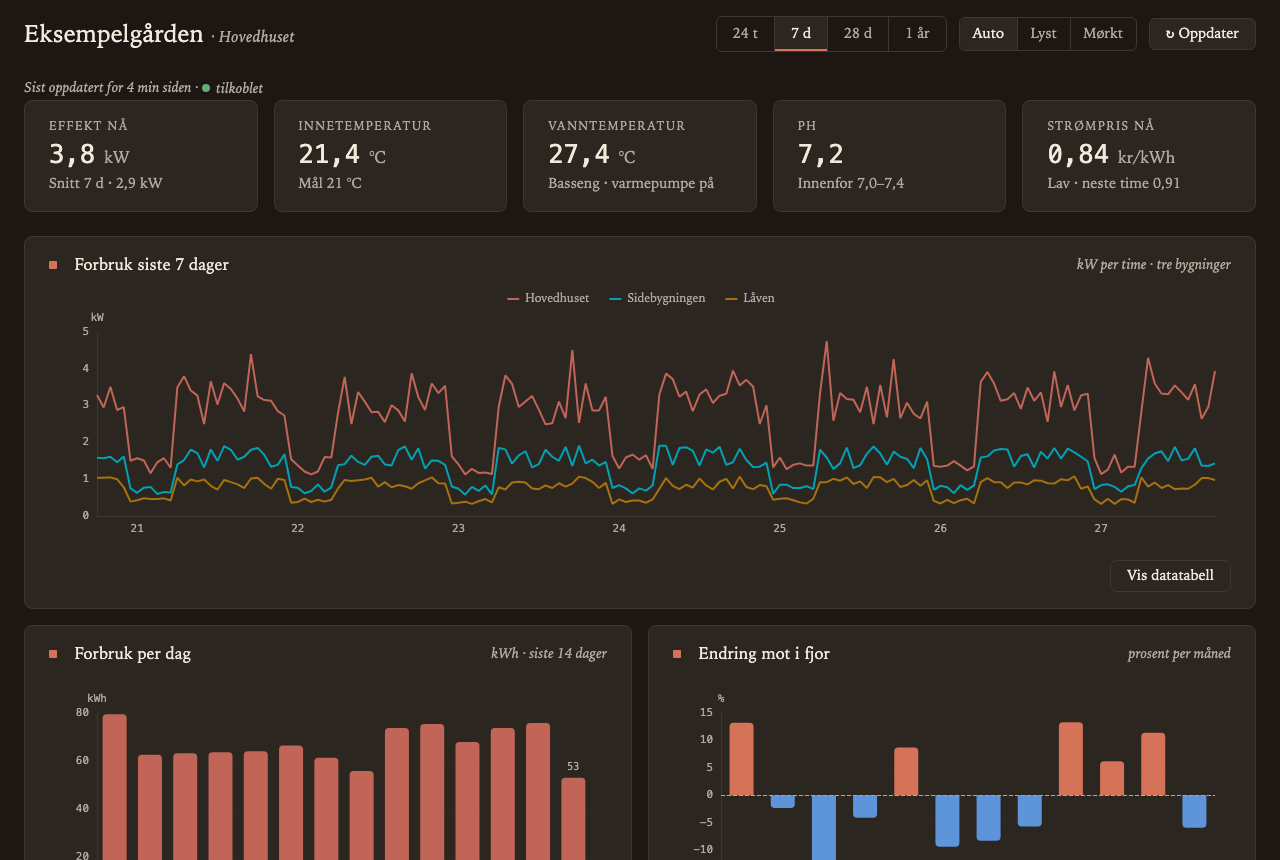
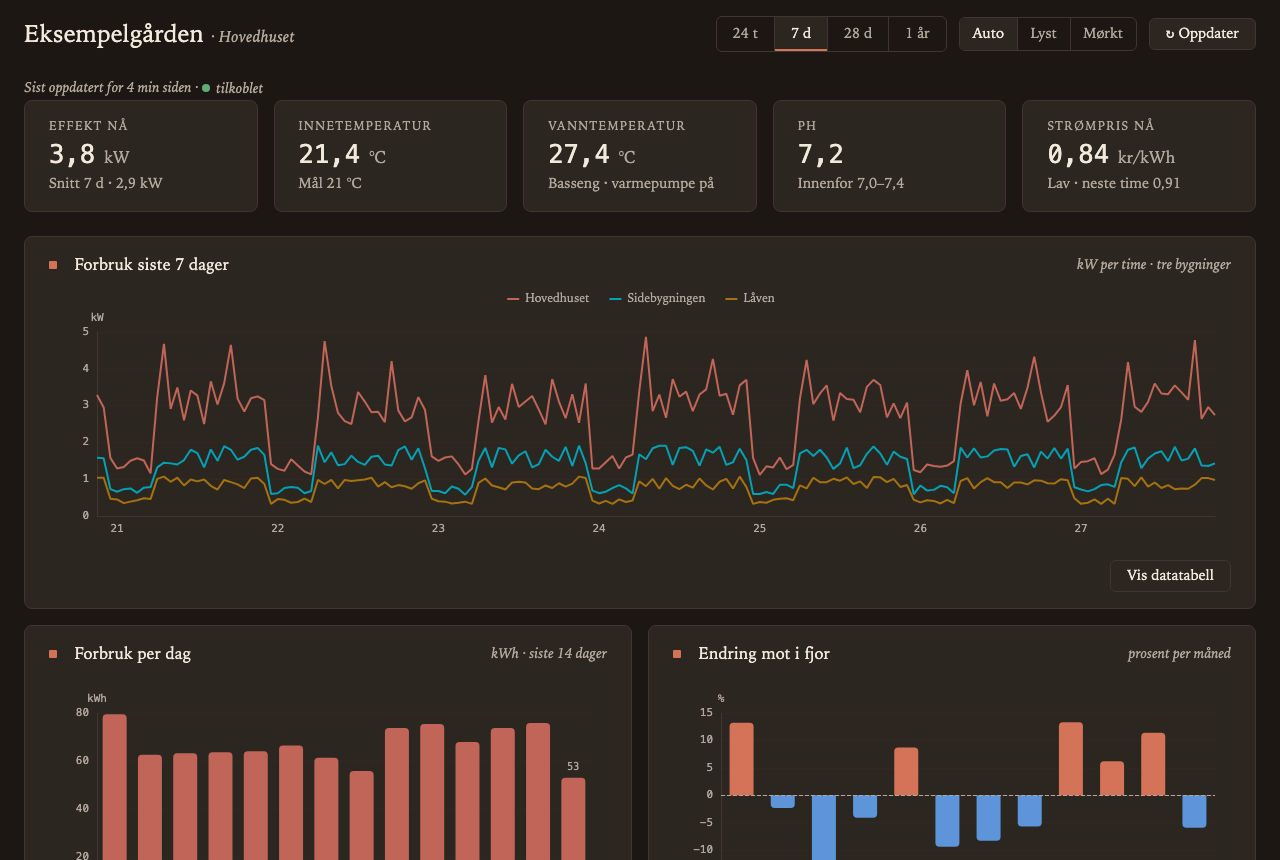
Nerdesign v1.0.2

diff --git a/site/versjoner.html b/site/versjoner.html
@@ -11,11 +11,11 @@
 <link rel="stylesheet" href="dist/vendor/photoswipe/photoswipe.min.css">
 <link rel="stylesheet" href="site.css">
 </head>
-<body data-nd-version="1.0.1">
+<body data-nd-version="1.0.2">
 <a class="nd-skip-link" href="#innhold">Hopp til innhold</a>
 <div class="site-version-banner" id="version-banner" hidden></div>
 <header class="site-header">
-  <a class="site-brand" href="index.html"><span class="site-mark" aria-hidden="true"></span>Nerdesign <small class="nd-numeric">v1.0.1</small></a>
+  <a class="site-brand" href="index.html"><span class="site-mark" aria-hidden="true"></span>Nerdesign <small class="nd-numeric">v1.0.2</small></a>
   <nav class="site-nav" aria-label="Hovedmeny">
     <a href="index.html">Om</a>
     <a href="kom-i-gang.html">Kom i gang</a>
@@ -37,6 +37,11 @@
 
 
 <section class="nd-panel" style="margin-bottom: var(--nd-space-4);">
+  <h2 style="margin-top: 0;">v1.0.2 <small class="nd-muted" style="font-size: 0.6em; font-weight: 400;">2026-08-27</small></h2>
+  <ul class="nd-list"></ul>
+  <p class="nd-row" style="margin: 0;"><a class="nd-button" href="v1.0.2/">Se nettstedet for v1.0.2</a><a class="nd-button" href="v1.0.2/dist/nd.css">nd.css</a><a class="nd-button" href="https://github.com/nerdegutt/nerdesign/releases/tag/v1.0.2">GitHub-release</a></p>
+</section>
+<section class="nd-panel" style="margin-bottom: var(--nd-space-4);">
   <h2 style="margin-top: 0;">v1.0.1 <small class="nd-muted" style="font-size: 0.6em; font-weight: 400;">2026-08-27</small></h2>
   <ul class="nd-list"></ul>
   <p class="nd-row" style="margin: 0;"><a class="nd-button" href="v1.0.1/">Se nettstedet for v1.0.1</a><a class="nd-button" href="v1.0.1/dist/nd.css">nd.css</a><a class="nd-button" href="https://github.com/nerdegutt/nerdesign/releases/tag/v1.0.1">GitHub-release</a></p>
@@ -47,7 +52,7 @@
   <p class="nd-row" style="margin: 0;"><a class="nd-button" href="v1.0.0/">Se nettstedet for v1.0.0</a><a class="nd-button" href="v1.0.0/dist/nd.css">nd.css</a><a class="nd-button" href="https://github.com/nerdegutt/nerdesign/releases/tag/v1.0.0">GitHub-release</a></p>
 </section>
 </main>
-<footer class="nd-colophon">Nerdesign · et designsystem for Helgerød gård, Jeløya · v1.0.1</footer>
+<footer class="nd-colophon">Nerdesign · et designsystem for Helgerød gård, Jeløya · v1.0.2</footer>
 <script>
   // Snapshot banner: tell the reader when a newer release exists. versions.json lives at the site root.
   (async () => {

diff --git a/site/index.html b/site/index.html
@@ -11,11 +11,11 @@
 <link rel="stylesheet" href="dist/vendor/photoswipe/photoswipe.min.css">
 <link rel="stylesheet" href="site.css">
 </head>
-<body data-nd-version="1.0.1">
+<body data-nd-version="1.0.2">
 <a class="nd-skip-link" href="#innhold">Hopp til innhold</a>
 <div class="site-version-banner" id="version-banner" hidden></div>
 <header class="site-header">
-  <a class="site-brand" href="index.html"><span class="site-mark" aria-hidden="true"></span>Nerdesign <small class="nd-numeric">v1.0.1</small></a>
+  <a class="site-brand" href="index.html"><span class="site-mark" aria-hidden="true"></span>Nerdesign <small class="nd-numeric">v1.0.2</small></a>
   <nav class="site-nav" aria-label="Hovedmeny">
     <a href="index.html" aria-current="page">Om</a>
     <a href="kom-i-gang.html">Kom i gang</a>
@@ -57,7 +57,7 @@
 <p class="nd-measure">Laget for Helgerød gård på Jeløya. Prefikset på alle klasser og tokens er <code>nd-</code>. Koden er MIT-lisensiert; JetBrains Mono og PhotoSwipe følger sine egne åpne lisenser.</p>
 
 </main>
-<footer class="nd-colophon">Nerdesign · et designsystem for Helgerød gård, Jeløya · v1.0.1</footer>
+<footer class="nd-colophon">Nerdesign · et designsystem for Helgerød gård, Jeløya · v1.0.2</footer>
 <script>
   // Snapshot banner: tell the reader when a newer release exists. versions.json lives at the site root.
   (async () => {

diff --git a/site/eksempler.html b/site/eksempler.html
@@ -11,11 +11,11 @@
 <link rel="stylesheet" href="dist/vendor/photoswipe/photoswipe.min.css">
 <link rel="stylesheet" href="site.css">
 </head>
-<body data-nd-version="1.0.1">
+<body data-nd-version="1.0.2">
 <a class="nd-skip-link" href="#innhold">Hopp til innhold</a>
 <div class="site-version-banner" id="version-banner" hidden></div>
 <header class="site-header">
-  <a class="site-brand" href="index.html"><span class="site-mark" aria-hidden="true"></span>Nerdesign <small class="nd-numeric">v1.0.1</small></a>
+  <a class="site-brand" href="index.html"><span class="site-mark" aria-hidden="true"></span>Nerdesign <small class="nd-numeric">v1.0.2</small></a>
   <nav class="site-nav" aria-label="Hovedmeny">
     <a href="index.html">Om</a>
     <a href="kom-i-gang.html">Kom i gang</a>
@@ -61,7 +61,7 @@
   examples/circuit-overview.html</pre>
 
 </main>
-<footer class="nd-colophon">Nerdesign · et designsystem for Helgerød gård, Jeløya · v1.0.1</footer>
+<footer class="nd-colophon">Nerdesign · et designsystem for Helgerød gård, Jeløya · v1.0.2</footer>
 <script>
   // Snapshot banner: tell the reader when a newer release exists. versions.json lives at the site root.
   (async () => {

diff --git a/site/kom-i-gang.html b/site/kom-i-gang.html
@@ -11,11 +11,11 @@
 <link rel="stylesheet" href="dist/vendor/photoswipe/photoswipe.min.css">
 <link rel="stylesheet" href="site.css">
 </head>
-<body data-nd-version="1.0.1">
+<body data-nd-version="1.0.2">
 <a class="nd-skip-link" href="#innhold">Hopp til innhold</a>
 <div class="site-version-banner" id="version-banner" hidden></div>
 <header class="site-header">
-  <a class="site-brand" href="index.html"><span class="site-mark" aria-hidden="true"></span>Nerdesign <small class="nd-numeric">v1.0.1</small></a>
+  <a class="site-brand" href="index.html"><span class="site-mark" aria-hidden="true"></span>Nerdesign <small class="nd-numeric">v1.0.2</small></a>
   <nav class="site-nav" aria-label="Hovedmeny">
     <a href="index.html">Om</a>
     <a href="kom-i-gang.html" aria-current="page">Kom i gang</a>
@@ -115,7 +115,7 @@
 </ul>
 
 </main>
-<footer class="nd-colophon">Nerdesign · et designsystem for Helgerød gård, Jeløya · v1.0.1</footer>
+<footer class="nd-colophon">Nerdesign · et designsystem for Helgerød gård, Jeløya · v1.0.2</footer>
 <script>
   // Snapshot banner: tell the reader when a newer release exists. versions.json lives at the site root.
   (async () => {

diff --git a/site/grunnlag.html b/site/grunnlag.html
@@ -11,11 +11,11 @@
 <link rel="stylesheet" href="dist/vendor/photoswipe/photoswipe.min.css">
 <link rel="stylesheet" href="site.css">
 </head>
-<body data-nd-version="1.0.1">
+<body data-nd-version="1.0.2">
 <a class="nd-skip-link" href="#innhold">Hopp til innhold</a>
 <div class="site-version-banner" id="version-banner" hidden></div>
 <header class="site-header">
-  <a class="site-brand" href="index.html"><span class="site-mark" aria-hidden="true"></span>Nerdesign <small class="nd-numeric">v1.0.1</small></a>
+  <a class="site-brand" href="index.html"><span class="site-mark" aria-hidden="true"></span>Nerdesign <small class="nd-numeric">v1.0.2</small></a>
   <nav class="site-nav" aria-label="Hovedmeny">
     <a href="index.html">Om</a>
     <a href="kom-i-gang.html">Kom i gang</a>
@@ -105,7 +105,7 @@
 </div>
 
 </main>
-<footer class="nd-colophon">Nerdesign · et designsystem for Helgerød gård, Jeløya · v1.0.1</footer>
+<footer class="nd-colophon">Nerdesign · et designsystem for Helgerød gård, Jeløya · v1.0.2</footer>
 <script>
   // Snapshot banner: tell the reader when a newer release exists. versions.json lives at the site root.
   (async () => {

diff --git a/site/komponenter.html b/site/komponenter.html
@@ -11,11 +11,11 @@
 <link rel="stylesheet" href="dist/vendor/photoswipe/photoswipe.min.css">
 <link rel="stylesheet" href="site.css">
 </head>
-<body data-nd-version="1.0.1">
+<body data-nd-version="1.0.2">
 <a class="nd-skip-link" href="#innhold">Hopp til innhold</a>
 <div class="site-version-banner" id="version-banner" hidden></div>
 <header class="site-header">
-  <a class="site-brand" href="index.html"><span class="site-mark" aria-hidden="true"></span>Nerdesign <small class="nd-numeric">v1.0.1</small></a>
+  <a class="site-brand" href="index.html"><span class="site-mark" aria-hidden="true"></span>Nerdesign <small class="nd-numeric">v1.0.2</small></a>
   <nav class="site-nav" aria-label="Hovedmeny">
     <a href="index.html">Om</a>
     <a href="kom-i-gang.html">Kom i gang</a>
@@ -262,7 +262,7 @@
 </div>
 
 </main>
-<footer class="nd-colophon">Nerdesign · et designsystem for Helgerød gård, Jeløya · v1.0.1</footer>
+<footer class="nd-colophon">Nerdesign · et designsystem for Helgerød gård, Jeløya · v1.0.2</footer>
 <script>
   // Snapshot banner: tell the reader when a newer release exists. versions.json lives at the site root.
   (async () => {

diff --git a/site/tilgjengelighet.html b/site/tilgjengelighet.html
@@ -11,11 +11,11 @@
 <link rel="stylesheet" href="dist/vendor/photoswipe/photoswipe.min.css">
 <link rel="stylesheet" href="site.css">
 </head>
-<body data-nd-version="1.0.1">
+<body data-nd-version="1.0.2">
 <a class="nd-skip-link" href="#innhold">Hopp til innhold</a>
 <div class="site-version-banner" id="version-banner" hidden></div>
 <header class="site-header">
-  <a class="site-brand" href="index.html"><span class="site-mark" aria-hidden="true"></span>Nerdesign <small class="nd-numeric">v1.0.1</small></a>
+  <a class="site-brand" href="index.html"><span class="site-mark" aria-hidden="true"></span>Nerdesign <small class="nd-numeric">v1.0.2</small></a>
   <nav class="site-nav" aria-label="Hovedmeny">
     <a href="index.html">Om</a>
     <a href="kom-i-gang.html">Kom i gang</a>
@@ -75,7 +75,7 @@
 </table>
 
 </main>
-<footer class="nd-colophon">Nerdesign · et designsystem for Helgerød gård, Jeløya · v1.0.1</footer>
+<footer class="nd-colophon">Nerdesign · et designsystem for Helgerød gård, Jeløya · v1.0.2</footer>
 <script>
   // Snapshot banner: tell the reader when a newer release exists. versions.json lives at the site root.
   (async () => {

diff --git a/dist/nd.css b/dist/nd.css
@@ -1,4 +1,4 @@
-/* Nerdesign v1.0.1 – tokens, base styles and components. Copied from github.com/nerdegutt/nerdesign – do not edit here; change the source and copy again. */
+/* Nerdesign v1.0.2 – tokens, base styles and components. Copied from github.com/nerdegutt/nerdesign – do not edit here; change the source and copy again. */
 
 /* ===== tokens/primitives.css ===== */
 /* Layer 1 – primitive palette. Material names from the farm, with lightness
@@ -324,6 +324,8 @@ body {
   line-height: var(--nd-leading);
 }
 img, svg, video, canvas { max-width: 100%; height: auto; display: block; }
+/* the hidden attribute must win over any display rule a page adds */
+[hidden] { display: none !important; }
 button, input, select, textarea { font: inherit; color: inherit; }
 
 /* ===== base/typography.css ===== */

diff --git a/site/dist/nd.css b/site/dist/nd.css
@@ -1,4 +1,4 @@
-/* Nerdesign v1.0.1 – tokens, base styles and components. Copied from github.com/nerdegutt/nerdesign – do not edit here; change the source and copy again. */
+/* Nerdesign v1.0.2 – tokens, base styles and components. Copied from github.com/nerdegutt/nerdesign – do not edit here; change the source and copy again. */
 
 /* ===== tokens/primitives.css ===== */
 /* Layer 1 – primitive palette. Material names from the farm, with lightness
@@ -324,6 +324,8 @@ body {
   line-height: var(--nd-leading);
 }
 img, svg, video, canvas { max-width: 100%; height: auto; display: block; }
+/* the hidden attribute must win over any display rule a page adds */
+[hidden] { display: none !important; }
 button, input, select, textarea { font: inherit; color: inherit; }
 
 /* ===== base/typography.css ===== */

diff --git a/dist/nd-echarts.js b/dist/nd-echarts.js
@@ -1,4 +1,4 @@
-// Nerdesign v1.0.1 – ECharts theme and option helpers that read nd tokens at runtime. Copied from github.com/nerdegutt/nerdesign – do not edit here; change the source and copy again.
+// Nerdesign v1.0.2 – ECharts theme and option helpers that read nd tokens at runtime. Copied from github.com/nerdegutt/nerdesign – do not edit here; change the source and copy again.
 // Nerdesign × ECharts. ES module, no dependencies. Pass your `echarts` instance
 // in – this file never binds to a CDN global. Everything reads the nd- tokens
 // from the live page, so charts follow light/dark automatically.

diff --git a/site/dist/nd-echarts.js b/site/dist/nd-echarts.js
@@ -1,4 +1,4 @@
-// Nerdesign v1.0.1 – ECharts theme and option helpers that read nd tokens at runtime. Copied from github.com/nerdegutt/nerdesign – do not edit here; change the source and copy again.
+// Nerdesign v1.0.2 – ECharts theme and option helpers that read nd tokens at runtime. Copied from github.com/nerdegutt/nerdesign – do not edit here; change the source and copy again.
 // Nerdesign × ECharts. ES module, no dependencies. Pass your `echarts` instance
 // in – this file never binds to a CDN global. Everything reads the nd- tokens
 // from the live page, so charts follow light/dark automatically.

diff --git a/dist/nd-fonts.css b/dist/nd-fonts.css
@@ -1,4 +1,4 @@
-/* Nerdesign v1.0.1 – self-hosted fonts; expects ./fonts/ next to this file. Copied from github.com/nerdegutt/nerdesign – do not edit here; change the source and copy again. */
+/* Nerdesign v1.0.2 – self-hosted fonts; expects ./fonts/ next to this file. Copied from github.com/nerdegutt/nerdesign – do not edit here; change the source and copy again. */
 /* Self-hosted JetBrains Mono (SIL OFL 1.1, see fonts/LICENSE-JetBrainsMono-OFL.txt),
    subset to latin + latin-extended (æøå) + common symbols. Used for numerals
    and chart text via --nd-font-numeric. Ships separately from nd.css so
